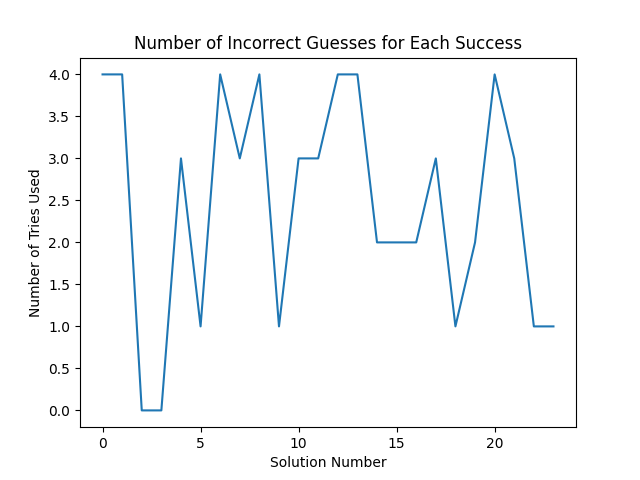
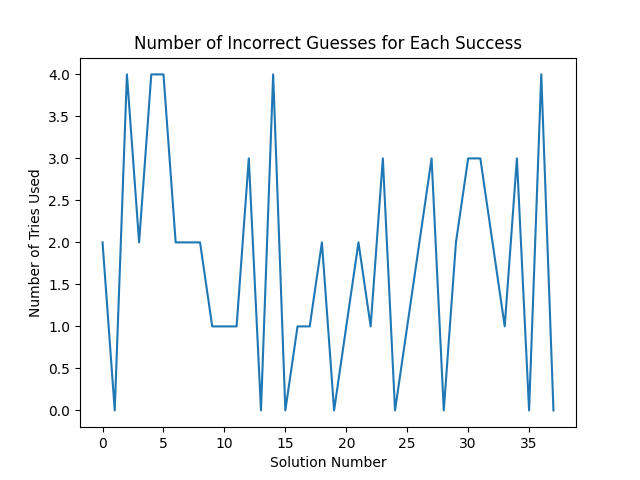
Correct figures

diff --git a/plotting.py b/plotting.py
@@ -1,0 +1,60 @@
+import numpy as np
+import matplotlib.pyplot as plt
+from scipy import signal
+
+losses = [0.0646063, 0.062187657, 0.065627515, 0.063344896, 0.061465748, 0.059861332, 0.062146552, 0.060722332, 0.05986827, 0.05729709, 0.056192435, 0.056267414, 0.05364085, 0.054078627, 0.053613596, 0.0541981, 0.05471701, 0.054173477, 0.06364804, 0.06489934, 0.06401647, 0.06858861, 0.06829514, 0.0683727, 0.067182265, 0.06901794, 0.06759005, 0.06665851, 0.06555318, 0.06434218, 0.06515939, 0.064168006, 0.06398244, 0.06328135, 0.06359166, 0.063017964, 0.062482752, 0.061603446, 0.06208974, 0.06257351, 0.06220232, 0.06145051, 0.06134359, 0.060939755, 0.06021723, 0.059969414, 0.059222855, 0.058829445, 0.058298998, 0.060356416, 0.06030393, 0.059698198, 0.059585333, 0.058980823, 0.058927856, 0.05844822, 0.057783805, 0.057542212, 0.057296883, 0.05699784, 0.056269024, 0.055633545, 0.055458326, 0.0549671, 0.05502462, 0.05470557, 0.05406701, 0.05358532, 0.053231396, 0.053364273, 0.05320721, 0.05316786, 0.052804668, 0.052625164, 0.05279224, 0.05306089, 0.052909046, 0.052768953, 0.052585755, 0.052465033, 0.052442797, 0.05254647, 0.05238271, 0.05211799, 0.052004285, 0.05218313, 0.052189723, 0.052346025, 0.052148696, 0.05200346, 0.05193362, 0.051844344, 0.051488485, 0.05141532, 0.051282417, 0.05150947, 0.0513054, 0.051240828, 0.05111282, 0.050897054, 0.050702084, 0.050948255, 0.051330913, 0.051048916, 0.050888076, 0.05067423, 0.050463486, 0.050405312, 0.050661, 0.05037029, 0.050377626, 0.05010124, 0.049853202, 0.049785405, 0.049696203, 0.04959657, 0.049526606, 0.049399834, 0.049219664, 0.048978884, 0.04888397, 0.048800774, 0.048756905, 0.04862687, 0.04855617, 0.048575986, 0.048524354, 0.04838445, 0.04834587, 0.048370562, 0.048240874, 0.048123676, 0.048063666, 0.048033908, 0.04789348, 0.0477943, 0.047755297, 0.04775984, 0.04772178, 0.047830846, 0.04778469, 0.04764729, 0.04741753, 0.047265258, 0.047249276, 0.047569577, 0.04755056, 0.047516476, 0.04763891, 0.04753221, 0.047533255, 0.047513925, 0.047431275, 0.04737485, 0.04747374, 0.047592975, 0.047749095, 0.047794763, 0.047730517, 0.047613643, 0.047764417, 0.047735427, 0.047954403, 0.047822602, 0.047746137, 0.04856047, 0.048645414, 0.04856608, 0.048452467, 0.048404884, 0.04835606, 0.048312325, 0.048491675, 0.048421595, 0.048390634, 0.048371065, 0.048367098, 0.04845145, 0.048647296, 0.048547767, 0.048632815, 0.04861551, 0.04903263, 0.04911082, 0.049094513, 0.049014665, 0.048984524, 0.048870128, 0.04893079, 0.048729926, 0.04872164, 0.048803687, 0.04875337, 0.048833206, 0.04873603, 0.048676267, 0.048559368, 0.04858747, 0.048474163, 0.048610963, 0.04855746, 0.048629705, 0.04847447, 0.04840003, 0.048407968, 0.048450857, 0.04875193, 0.048704837, 0.048842944, 0.048745647, 0.048651837, 0.048811983, 0.048837025, 0.04885177, 0.04892931, 0.048891433, 0.04882869, 0.048774067, 0.048697315, 0.048685182, 0.04881365, 0.048641574, 0.048611723, 0.048609514, 0.048854437, 0.048816454, 0.04893208, 0.048988454, 0.048955586, 0.04889813, 0.04874761, 0.048796006, 0.048992783, 0.049115457, 0.049110044, 0.049195644, 0.049166337, 0.049033068, 0.049020782, 0.04891606, 0.048857454, 0.04874942, 0.048775394, 0.04908674, 0.049118407, 0.0492876, 0.050127964, 0.050059803, 0.05017884, 0.05041931, 0.05045242, 0.05098433, 0.051317237, 0.051363517, 0.05159408, 0.051574446, 0.051995806, 0.052156158, 0.052148018, 0.052184127, 0.052145682, 0.052933164, 0.052954387, 0.053099748, 0.053175237, 0.053121917, 0.053266294, 0.053339187, 0.05334471, 0.053400483, 0.05364757, 0.053734504, 0.053776912, 0.053864032, 0.053829152, 0.053834688, 0.053702086, 0.053743828, 0.05393725, 0.05390863, 0.05387328, 0.05404886, 0.05446568, 0.05487675, 0.055166125, 0.055157978, 0.05520489, 0.05512555, 0.05511635, 0.055154115, 0.055164207, 0.05515429, 0.05519759, 0.055174574, 0.055166498, 0.055366002, 0.05545036, 0.05544053, 0.055618923, 0.055691645, 0.05573829, 0.055753883, 0.05570188, 0.055844318, 0.056110334, 0.056064263, 0.056251675, 0.056213405, 0.056169473, 0.056961935, 0.05741847, 0.057392757, 0.05770261, 0.057806574, 0.057712283, 0.057713848, 0.057809066, 0.05770819, 0.057761226, 0.057721175, 0.057684314, 0.05786333, 0.0579111, 0.057994854, 0.05818172, 0.058381006, 0.058406245, 0.05827793, 0.058400042, 0.058342714, 0.058209267, 0.058310807, 0.058419786, 0.058630742, 0.058516636, 0.05860036, 0.058561914, 0.05853969, 0.058556173, 0.05854965, 0.05860083, 0.058605764, 0.05854232, 0.05864687, 0.05886241, 0.0587461, 0.05876667, 0.058767613, 0.058837894, 0.05884452, 0.05887545, 0.058895353, 0.058876697, 0.05897815, 0.059038002, 0.05918064, 0.05910968, 0.059165325, 0.059184875, 0.0590942, 0.059006255, 0.058901444, 0.058816653, 0.05880268, 0.05879663, 0.058684353, 0.058693934, 0.059028983, 0.0589289, 0.059119776, 0.05910022, 0.05918319, 0.059249192, 0.05921685, 0.05932003, 0.05942967, 0.059333593, 0.059250765, 0.05925583, 0.059425715, 0.059355523, 0.05927321, 0.059307937, 0.05942453, 0.05964682, 0.05955144, 0.059657805, 0.059720974, 0.059952997, 0.060006812, 0.060121015, 0.060397357, 0.060432497, 0.060458653, 0.060586162, 0.060538013, 0.06052717, 0.06058044, 0.06050911, 0.06065749, 0.06068184, 0.060724966, 0.060840953, 0.060715318, 0.060740568, 0.06086789, 0.060849138, 0.060844533, 0.060721282, 0.060999893, 0.06101314, 0.06112574, 0.061351683, 0.061361626, 0.061549783, 0.061672628, 0.06168083, 0.061738968, 0.061737232, 0.06174347, 0.061807774, 0.061836112, 0.06194996, 0.061892893, 0.062088754, 0.061991833, 0.062347967, 0.06230713, 0.062334895, 0.062463395, 0.0624777, 0.062445905, 0.06235128, 0.06236648, 0.06251899, 0.06244375, 0.06251323, 0.0625587, 0.06259797, 0.06266292, 0.06261606, 0.06263465, 0.06284522, 0.06288648, 0.062991686, 0.0631407, 0.063226305, 0.0632621, 0.06335523, 0.06341287, 0.063665055, 0.06366106, 0.063687466, 0.06377964, 0.06376364, 0.063837826, 0.063982695, 0.06430814, 0.06429497, 0.06446006, 0.06439072, 0.064383455, 0.06445086, 0.06448836, 0.06458828, 0.064696565, 0.06472167, 0.06477804, 0.06481898, 0.06492264, 0.064990096, 0.06505765, 0.06516254, 0.06525797, 0.065382205, 0.065428115, 0.06560452, 0.06570436, 0.065792695, 0.065885015, 0.06604384, 0.066132635, 0.06615491, 0.06622984, 0.066324815, 0.066473454, 0.066607766, 0.06667873, 0.066773385, 0.066990435, 0.067129016, 0.06733437, 0.06746379, 0.067596875, 0.0677667, 0.06790864, 0.0680424, 0.06834217, 0.06847339, 0.06870076, 0.068881564, 0.06899527, 0.06916081, 0.06935064, 0.06954205, 0.069679745, 0.06979283, 0.06998929, 0.07050053, 0.070662856, 0.07091253, 0.071062, 0.071273, 0.071435384, 0.07172106, 0.071994, 0.07221306, 0.07242456, 0.072564036, 0.07285284, 0.07317014, 0.073361814, 0.07361239, 0.073834546, 0.07400407, 0.07422241, 0.0743883, 0.074622504, 0.07476908, 0.07500617, 0.07524666, 0.07548489, 0.07583286, 0.07605119, 0.07640278, 0.07656958, 0.0768699, 0.07726618, 0.07754248, 0.077772126, 0.078026496, 0.07829753, 0.078516275, 0.07875257, 0.078971915, 0.07915256, 0.07947235, 0.079720765, 0.07985874, 0.080145225, 0.08032642, 0.080621906, 0.08087938, 0.08105332, 0.0813258, 0.08162911, 0.08186774, 0.082177855, 0.08246108, 0.08287402, 0.08323996, 0.08352907, 0.08380675, 0.084079646, 0.08467058, 0.0849689, 0.08517547, 0.08547872, 0.085774735, 0.08607842, 0.086353526, 0.08665945, 0.08713029, 0.08735682, 0.08759061, 0.08783303, 0.08820974, 0.08858523, 0.08901763, 0.089317165, 0.08960193, 0.08998365, 0.0902187, 0.09054108, 0.090896316, 0.091093004, 0.09130924, 0.09156442, 0.09194113, 0.09226314, 0.09243741, 0.09275005, 0.09306203, 0.093304396, 0.09355956, 0.09388859, 0.094114214, 0.09432459, 0.09451325, 0.09464509, 0.094949394, 0.09514459, 0.09554251, 0.09576987, 0.09586985, 0.09609614, 0.09625194, 0.09660263, 0.09681489, 0.09694068, 0.09724492, 0.09750635, 0.09772671, 0.09799031, 0.09808741, 0.0983661, 0.09861488, 0.09865225, 0.09896482, 0.09979464, 0.10000216, 0.100228444, 0.100322686, 0.100551195, 0.10065378, 0.100927725, 0.10110821, 0.10102516, 0.101169944, 0.101536386, 0.10146877, 0.101864465, 0.102063954, 0.10238527, 0.10274963, 0.102826916, 0.10328526, 0.10344957, 0.10350875, 0.10346758, 0.10346294, 0.103378415, 0.103804216, 0.10399242, 0.10420934, 0.10451198, 0.10466661, 0.10486838, 0.10496173, 0.10510935, 0.10536773, 0.10538522, 0.10529775, 0.10532804, 0.105396815, 0.10537794, 0.105476834, 0.10558864, 0.1058351, 0.10591128, 0.10593595, 0.10606325, 0.10617908, 0.106414475, 0.106433555, 0.10684464, 0.10700681, 0.10694281, 0.106962346, 0.1069412, 0.10701082, 0.1071343, 0.1072734, 0.107291855, 0.1073176, 0.107357375, 0.10746525, 0.10750558, 0.10757236, 0.10760231, 0.10761023, 0.107543126, 0.10768476, 0.10787655, 0.10791873, 0.107981354, 0.10793011, 0.10797171, 0.108019374, 0.10802935, 0.10809877, 0.108204745, 0.10824253, 0.1082311, 0.108224995, 0.108297005, 0.10835296, 0.10841719, 0.10844487, 0.108547494, 0.10863707, 0.1087137, 0.10875625, 0.108766295, 0.10884053, 0.10893619, 0.108949326, 0.10894992, 0.108970225, 0.10913864, 0.109245054, 0.10929679, 0.10927676, 0.10934212, 0.109487094, 0.10952865, 0.10963196, 0.10969648, 0.10971759, 0.10970425, 0.10983183, 0.1099175, 0.11001683, 0.11007972, 0.11006877, 0.11018733, 0.11026179, 0.11025128, 0.11016427, 0.11011944, 0.110211134, 0.11021996, 0.11022536, 0.11029559, 0.11024976, 0.110233314, 0.11038867, 0.11050197, 0.11060119, 0.11059927, 0.11056454, 0.110544704, 0.1106388, 0.11075263, 0.110667236, 0.11084114, 0.11077023, 0.11075413, 0.111042485, 0.11106892, 0.110955186, 0.11099405, 0.111019604, 0.11105889, 0.11134521, 0.11144642, 0.11156581, 0.111607835, 0.11167252, 0.11187037, 0.11197323, 0.112211294, 0.11226944, 0.11239918, 0.112544656, 0.11259294, 0.11275082, 0.11281973, 0.11294718, 0.113096975, 0.11312025, 0.11317663, 0.11310012, 0.113197386, 0.113148846, 0.113276154, 0.11338722, 0.113405146, 0.11357173, 0.11368664, 0.113646075]
+avg_r = [-8.051724172924995, -7.514223481764111, -7.690143851364737, -7.446871976950617, -7.346910639703647, -7.004224344352821, -7.3670683580692335, -7.362007816413357, -7.541397286654068, -7.435222729797649, -7.047592577079768, -7.004686955174673, -7.150425287156343, -6.847940246941148, -6.738351527955293, -6.796790506801809, -6.942463628849642, -6.938517182723851, -6.933226425990368, -6.802477420583903, -6.8785067327262235, -6.9110192160993345, -6.877743681840665, -6.868690787653288, -6.8709937809109976, -6.892582322997402, -6.944529604885285, -7.018901688800956, -7.078523140796675, -7.088129119541362, -7.07811335311386, -7.147272139424664, -7.223336870757986, -7.330010741736796, -7.369753150480717, -7.389529935315808, -7.442856120783537, -7.491106041737612, -7.478557982191084, -7.4626009067960215, -7.458501651434675, -7.414292803669694, -7.421176498346802, -7.473311973237771, -7.45008596308941, -7.437176743388776, -7.4605720853525055, -7.495260263509842, -7.50678693427964, -7.482954361669432, -7.474991445061679, -7.450537844497985, -7.4820760724621325, -7.5486878559499315, -7.567473420650786, -7.562093731267694, -7.584808197386249, -7.581121985814646, -7.578388991154122, -7.592884446473386, -7.546411975406702, -7.609144585147953, -7.638407040873336, -7.645270062137543, -7.652307080911592, -7.654300528909894, -7.661879266639235, -7.666831806499994, -7.63442814409835, -7.671541640604593, -7.666106056706248, -7.611108276627219, -7.608531693895527, -7.578974561815462, -7.585467075367038, -7.563890300100186, -7.591520084088842, -7.567477036304039, -7.571969354550502, -7.57399753708979, -7.558044519148644, -7.5348864471087955, -7.523069183659131, -7.530650920024111, -7.565220383036165, -7.511185973746219, -7.521526168359448, -7.519022367896445, -7.525774014767124, -7.482941088838968, -7.494251383061976, -7.493575099455483, -7.472722248351391, -7.47291623427456, -7.43890401608788, -7.453965183228746, -7.437973814454425, -7.4462909283799, -7.431170970802003, -7.44521612524446, -7.446833611006688, -7.416156549468808, -7.373497353975494, -7.388765273595719, -7.374135109918805, -7.382548499765305, -7.349223508429324, -7.3677511487804805, -7.34146367303797, -7.319982624173541, -7.3125186709262495, -7.289719595056117, -7.31730091496995, -7.303644376264992, -7.299601780280351, -7.289471929902885, -7.271258944416358, -7.283790342003397, -7.2705097372583305, -7.25029650214125, -7.210421465559258, -7.168487672107683, -7.152704594048514, -7.162335237258473, -7.175705035523127, -7.177856479545389, -7.1920172161244365, -7.182469345485753, -7.219221659744753, -7.227420732333601, -7.2042843123755596, -7.183132963964781, -7.1803536215780195, -7.200695109771396, -7.183482048005548, -7.180711603617467, -7.19346771032135, -7.205044557734202, -7.174416279312545, -7.141861814046483, -7.147634526326145, -7.153439838018095, -7.100044414250276, -7.089106305926788, -7.07489131218541, -7.058642602897342, -7.063713498354412, -7.073026548032212, -7.070171089161609, -7.063571936750451, -7.0797768663882525, -7.084742250148727, -7.075613796282329, -7.071028100876382, -7.059298719506519, -7.057495716033607, -7.030443765267622, -7.0284461919346395, -7.044230575892187, -7.050527659345962, -7.034884123911821, -7.038704246334481, -7.0134433310483635, -7.065451658588445, -7.050187394189452, -7.0238935982019965, -7.039509222790457, -7.040980395113889, -7.021568414552445, -7.022035807439481, -7.0270217976883815, -7.021405498233197, -7.028971947985834, -7.014433058561045, -7.017814072420281, -7.211495956117473, -7.192440826782398, -7.186818809875077, -7.151423843585439, -7.149697828292561, -7.097718029652405, -7.114395920807353, -7.115471419818737, -7.130900621618926, -7.136330987612719, -7.128527447002004, -7.131172267998655, -7.125874237400462, -7.108910667735693, -7.069988072419268, -7.095431751060623, -7.0983466534846995, -7.072586143024281, -7.05108657658353, -7.052020096055315, -7.05976555554616, -7.047722401297067, -7.052713598096298, -7.090117711006833, -7.0732282153647725, -7.06334958107953, -7.066394868383351, -7.052689800576883, -7.036225888019876, -7.026072324439932, -7.032478151329016, -7.0015940846339735, -6.985617930147923, -6.935531831751017, -6.911261787053647, -6.918914798472861, -6.8670793059044515, -6.887454701105421, -6.898128902861371, -6.909299626501977, -6.9013008684210115, -6.899743177510521, -6.904215686880412, -6.896274393749809, -6.904218134507903, -6.9353999749384245, -6.890312609913991, -6.878949761359466, -6.823856693525459, -6.797870814403003, -6.793783401070504, -6.805116302868863, -6.81161906554402, -6.843776462912617, -6.825615880561885, -6.796755609240238, -6.785106609247852, -6.796241279537561, -6.782802223859259, -6.785863146721337, -6.794068348771017, -6.806865394583626, -6.8184105864289535, -6.791232799738487, -6.805361447117035, -6.759342786401391, -6.750743111079373, -6.789690154587492, -6.793344771773485, -6.854718155156806, -6.879933631519333, -6.85949510247996, -6.8478124298842, -6.938242923458886, -6.999775612343086, -6.998935810437965, -6.98308913709854, -7.00782831840485, -7.055998773315127, -7.042647809644648, -7.029646285663682, -7.023868650345173, -7.002510681398305, -6.981298413431866, -6.9776794619551366, -6.960635953492974, -6.949812330074686, -6.940417593270141, -6.941596320958078, -6.9366737093477076, -6.936886444519625, -6.929839679624313, -6.934562734661056, -6.926014670193019, -6.914352068251449, -6.90360130248076, -6.891088528532534, -6.892706556842579, -6.874479049130949, -6.862017952523096, -6.856179478108167, -6.872295892894902, -6.869949753771957, -6.809689340180329, -6.78275838981094, -6.7929984459992925, -6.772120509420972, -6.711436042439063, -6.6842350800257435, -6.654929592490719, -6.6560226818783725, -6.637577238952269, -6.630309720169121, -6.624664354017389, -6.623732443197533, -6.623204632253614, -6.616532524962732, -6.616058636020615, -6.600803969055519, -6.598132049496115, -6.58640795379662, -6.575575864845165, -6.562533484995224, -6.50323564266769, -6.4835090341599475, -6.480886531882164, -6.4237644623642085, -6.407060145567498, -6.4090943054708704, -6.413145462078729, -6.4193974021658535, -6.420028198057656, -6.397140024450819, -6.368447111407895, -6.334370134448919, -6.315541045488868, -6.307006550485679, -6.2918240091505995, -6.257989332027726, -6.227841821256566, -6.2150539033461065, -6.178442353395387, -6.14574723667004, -6.152790933449517, -6.142859449733626, -6.128059154306099, -6.111189914928695, -6.106107013643509, -6.0908853647608545, -6.047046580768666, -6.005456272325024, -5.975089839400411, -5.925203855560936, -5.9037147292996, -5.887455784981747, -5.8584467995755265, -5.844503788849716, -5.807221212160648, -5.777243257532861, -5.756736851048007, -5.709392762797486, -5.697783490588692, -5.698068676024961, -5.691713704921183, -5.66400885146795, -5.627537876161448, -5.603185199864221, -5.573766528058866, -5.551894313123237, -5.586781300612653, -5.541945112846908, -5.519466499320623, -5.483552927338986, -5.450121952065375, -5.446458546082542, -5.441432707022301, -5.4206919166131575, -5.410353152559493, -5.405354916569453, -5.399824078705348, -5.381524253978309, -5.3464596583866175, -5.354109225560658, -5.3407685214838185, -5.3138110119928665, -5.315943091227902, -5.287027110905253, -5.2427330439393875, -5.229471457445776, -5.227982069496862, -5.2021210229636505, -5.181106698115361, -5.182672726713714, -5.249781015311855, -5.294861987568179, -5.278789694280598, -5.26656313194652, -5.28353076982567, -5.2503877379744, -5.247253456183202, -5.254862162309286, -5.217999312988845, -5.182463418554816, -5.13915634417636, -5.101797954078596, -5.070848118870355, -5.042301742591523, -5.055324382604933, -5.027723819157941, -4.998571603083476, -4.967189624824594, -4.9322099395449905, -4.916531718588843, -4.910528293466666, -4.875380577533724, -4.834402343838057, -4.8094294050734225, -4.7770768240815675, -4.778094894063194, -4.755591806848735, -4.7272465799504895, -4.700650177736818, -4.702257125300788, -4.663214439027621, -4.629526982080008, -4.601420603573119, -4.614666502708079, -4.6125614606861065, -4.579546340187426, -4.571614666439881, -4.540760765729567, -4.51840144105611, -4.485371857462584, -4.458913869751103, -4.420845956709199, -4.399397648063961, -4.397273150843462, -4.363905886171823, -4.372932274187901, -4.368184468263209, -4.363277530523578, -4.3287059851789325, -4.3163477801218555, -4.281722347809052, -4.278271102552078, -4.2666460454152535, -4.264465712205054, -4.244412583011927, -4.218090543874355, -4.203195296905616, -4.17698464298421, -4.165712565507924, -4.129740718956894, -4.129941878126792, -4.114992090516834, -4.09012990248851, -4.0679970927379925, -4.043603826336644, -4.023321247917499, -4.013870783328057, -3.993242849586083, -3.974809180636937, -3.950281814565033, -3.944258924916637, -3.942573271419942, -3.9431756990877216, -3.9283266355516906, -3.9091800656731075, -3.904733792875116, -3.906773129745189, -3.8705637111134563, -3.868221595812635, -3.8443288877988766, -3.842542831100325, -3.813881246535047, -3.791494673590512, -3.781651010541429, -3.772894112062995, -3.743500332230549, -3.743020229163436, -3.7489250456575784, -3.7336830689549094, -3.7068705410285805, -3.6752036878840237, -3.6527127779711526, -3.6188438302894705, -3.596162027023082, -3.5958410471439772, -3.590409960390697, -3.5804851214819697, -3.5804794986732804, -3.5718461743139454, -3.5739844931734774, -3.5745278806687026, -3.571021083884216, -3.5727568460638435, -3.5582713689801966, -3.55758283189176, -3.554582537237479, -3.5515191921599714, -3.562182372221507, -3.558890965848756, -3.5594050927308727, -3.5626962772062503, -3.5643247986190905, -3.5624890124112767, -3.56890753899709, -3.5730360919122472, -3.5635535410203554, -3.5661414013420534, -3.559415825432311, -3.5622839062696134, -3.560150245736052, -3.5668089089103923, -3.565664231946113, -3.5652982541334577, -3.5695023981245737, -3.57666462839432, -3.5798379539640357, -3.5744703662892645, -3.5720383475422226, -3.569058457655264, -3.5607192078770327, -3.56302015404472, -3.5631441027412953, -3.564655009864751, -3.5680726575566495, -3.563977928484679, -3.5682371428604234, -3.5553220622547834, -3.552820015653321, -3.553165055652797, -3.553501747450184, -3.6229065754676952, -3.717250224318932, -3.8308298190118837, -3.895561360641827, -3.9980177211804557, -3.9922340856425693, -3.9827258979564637, -3.9726120074554805, -3.9753151829150655, -3.9744081466264367, -3.9700182438617238, -3.972443980068319, -3.9774137759391306, -3.9740386027683154, -3.9624794561665446, -3.954412768749631, -3.96322110368789, -3.9608451787349535, -3.960796333459614, -3.9604752872550124, -3.964410992567784, -3.9638670054729443, -3.964601455257103, -3.9646477832914173, -3.9662475669674815, -3.9724862231174716, -3.971054064034068, -3.9672592601749717, -3.9728335636839733, -3.979769938044458, -3.9877789828623116, -3.9922279195792743, -3.9948169125245747, -3.994335018375706, -4.001310263430944, -4.000455542793107, -4.002566917318526, -3.9984302975555863, -4.003892561829588, -3.9902317204026034, -3.981177557026573, -3.9871645539585865, -3.99636164201973, -3.995280481022809, -4.009033736168794, -4.002026539422152, -4.006175729466266, -4.001348087690829, -4.0037985221623105, -4.003598148764749, -4.00706989285482, -4.003907326320345, -4.001541817915259, -4.0014471642033955, -3.9928852472669765, -3.9958042618168017, -3.9943524071114673, -3.9990789483310296, -4.005589594513228, -4.009951616885376, -4.0066260363557005, -4.004364768235881, -3.9988572046952466, -3.9937861181385093, -3.99274191450587, -3.9955157120356097, -3.9893619254786175, -3.987398279440581, -3.9853386326698237, -3.9870635644671766, -3.9907643762427143, -3.991160556524238, -3.9887129279543836, -3.9882906319772715, -3.981122650943076, -3.973437853027626, -3.973236328963511, -3.971257842071025, -3.963931819802362, -3.968940548979369, -3.9666623921558157, -3.956560942180969, -3.9513375309617595, -3.9488555192065906, -3.9506826900673557, -3.9477734348835996, -3.9447023274860964, -3.9449219643475937, -3.9443677137298683, -3.947477345677397, -3.9481702669866214, -3.949669484137568, -3.952064525260377, -3.9588340232815744, -3.962213015412107, -3.965456205526466, -3.964933132799374, -3.9645941479476283, -3.9643536334832903, -3.9574990439612074, -3.959208945647034, -3.9509854520674104, -3.957837120107803, -3.9647526018853263, -3.9642988224939577, -3.9697317745061564, -3.9661853426821874, -3.968261115196877, -3.969570715783135, -3.9694979666823955, -3.974331057957087, -3.9667868716118027, -3.974588886155583, -3.971208070526126, -3.9751976743494657, -3.9749964054433056, -3.9754517618430283, -3.98541636081537, -3.989191954043375, -3.975350741352884, -3.976696515418111, -3.9679864006902297, -3.960419244222755, -3.9433314753044084, -3.9297692970542246, -3.9388682669015234, -3.938403483927601, -3.9537579508728773, -3.947699982175517, -3.9386795793301768, -3.918498244308385, -3.9365883793980827, -3.9417005722906073, -3.925481852871493, -3.9283005283523975, -3.9322847908874454, -3.9382629235788036, -3.9451916887719154, -3.9460521198794956, -3.9555451939769526, -3.9554619866031864, -3.9541424047044558, -3.9549189430772222, -3.957355088606598, -3.9344727709613063, -3.9384044921089867, -3.938574219477969, -3.929554150874414, -3.93462178026572, -3.9392689851571547, -3.9324996262022913, -3.9244117723336234, -3.92103732395183, -3.910531593219794, -3.913256363739742, -3.9196783272511757, -3.920208626984995, -3.917707859800345, -3.9056366807052516, -3.8895314518965223, -3.8872930794285447, -3.888626974325729, -3.89561684896222, -3.8955834909772644, -3.903186181737733, -3.8993278184296765, -3.909655103540158, -3.919831837535367, -3.921127116470277, -3.922189190303815, -3.9323330775938325, -3.93301668084726, -3.9397954424168713, -3.9407566524955446, -3.944696113078906, -3.946468216646588, -3.948173799046144, -3.9448985399790066, -3.9468066033190143, -3.9525579841895397, -3.9590402603767982, -3.9649215569597853, -3.967529529435693, -3.9693035283719276, -3.9732129108053984, -3.977148596375867, -3.9752676851281086, -3.9795030024354023, -3.9812424772828794, -3.984528822419164, -3.9854343170014768, -3.9910627530164744, -3.9949178260732103, -3.9954826010462865, -4.003009522476136, -4.004459746892136, -4.011990191142402, -4.020934221727561, -4.019424869483428, -4.019180644982729, -4.019788779017942, -4.0257716493576705, -4.033972776157101, -4.031133545350323, -4.03079122987459, -4.040906880856426, -4.042782632794009, -4.050156883327141, -4.050314737134725, -4.050372491201697, -4.049460441590246, -4.051115584031018, -4.049336029308151, -4.052204749787126, -4.046123648418427, -4.04253770619474, -4.034574837279567, -4.039063871960264, -4.03613109649518, -4.038245386349532, -4.0342214254513005, -4.038571496650392, -4.035447227340356, -4.036748240745292, -4.035063122538169, -4.044650411109631, -4.0466783757441265, -4.042864809408776, -4.042494084642017, -4.046801546055614, -4.052367298892969, -4.057389934039798, -4.058798788280988, -4.050489135435731, -4.050431825344777, -4.0505738134291756, -4.049527877596771, -4.04593573980092, -4.047832362219691, -4.045544757106005, -4.050888436712868, -4.055022041664517, -4.046933506646389, -4.056680441029624, -4.0565705843939295, -4.0549638509732855, -4.054918488696363, -4.050241655039169, -4.047519691630613, -4.046264687349796, -4.047284791502675, -4.040517440588242, -4.04156171872063, -4.04565470016669, -4.043808067799916, -4.04353463015967, -4.043953891950072, -4.053424257725866, -4.051396392624064, -4.04706183388111, -4.048087251076663, -4.049162078210443, -4.049332064731112, -4.044772889269946, -4.050765126242614, -4.051314930063671, -4.057299620621447, -4.065383406257973, -4.062674374541337, -4.058732704593505, -4.059055089105374, -4.0555611099951685, -4.054480476645035]
+track_tries = [2, 0, 4, 2, 4, 4, 2, 2, 2, 1, 1, 1, 3, 0, 4, 0, 1, 1, 2, 0, 1, 2, 1, 3, 0, 1, 2, 3, 0, 2, 3, 3, 2, 1, 3, 0, 4, 0]
+exploring = [98, 93, 70, 77, 96, 68, 116, 85, 108, 86, 111, 106, 71, 55, 59, 131, 89, 173, 54, 55, 143, 78, 226, 73, 67, 94, 98, 131, 144, 58, 43, 103, 163, 110, 80, 104, 188, 79, 105, 77, 85, 42, 91, 132, 152, 91, 101, 100, 115, 61, 87, 71, 79, 107, 98, 72, 88, 91, 54, 157, 46, 62, 155, 129, 85, 97, 76, 112, 47, 118, 114, 118, 125, 68, 142, 66, 73, 101, 231, 128, 232, 101, 64, 93, 104, 92, 264, 106, 116, 78, 141, 92, 59, 92, 62, 151, 68, 91, 99, 155, 102, 69, 68, 80, 135, 136, 72, 115, 46, 63, 70, 71, 127, 85, 188, 76, 91, 144, 105, 51, 61, 91, 99, 88, 106, 68, 150, 114, 113, 141, 79, 90, 75, 145, 54, 74, 115, 103, 62, 61, 114, 178, 40, 100, 58, 26, 137, 83, 49, 121, 126, 137, 87, 117, 50, 130, 101, 125, 156, 40, 45, 97, 45, 57, 68, 47, 87, 103, 45, 83, 68, 58, 43, 47, 90, 68, 112, 56, 42, 41, 22, 151, 59, 104, 120, 55, 70, 91, 66, 49, 53, 93, 82, 77, 77, 124, 93, 139, 91, 69, 129, 81, 96, 43, 41, 53, 66, 67, 29, 116, 110, 25, 116, 149, 75, 80, 63, 77, 91, 150, 80, 16, 54, 34, 30, 49, 66, 85, 92, 13, 22, 86, 13, 75, 64, 67, 86, 20, 24, 11, 29, 15, 33, 63, 78, 33, 24, 11, 102, 12, 49, 15, 110, 92, 52, 62, 66, 43, 65, 69, 37, 48, 36, 71, 48, 101, 47, 82, 55, 63, 114, 93, 95, 50, 48, 134, 15, 45, 11, 51, 81, 56, 9, 59, 47, 56, 71, 50, 60, 127, 216, 83, 107, 72, 104, 106, 79, 40, 8, 30, 54, 5, 53, 94, 84, 65, 46, 35, 27, 31, 33, 70, 47, 30, 13, 92, 19, 10, 25, 23, 71, 51, 65, 72, 10, 10, 11, 11, 87, 45, 18, 28, 12, 19, 7, 9, 10, 40, 41, 15, 30, 17, 11, 37, 40, 9, 20, 7, 9, 44, 88, 34, 57, 92, 48, 36, 25, 76, 39, 8, 11, 19, 6, 29, 52, 6, 34, 55, 7, 9, 27, 18, 10, 8, 78, 70, 3, 8, 3, 3, 1, 6, 58, 14, 8, 6, 4, 35, 47, 4, 5, 35, 8, 109, 19, 6, 41, 103, 6, 4, 6, 10, 37, 5, 50, 12, 13, 5, 4, 4, 3, 193, 5, 86, 92, 43, 24, 36, 6, 39, 17, 80, 57, 3, 18, 6, 5, 4, 28, 59, 3, 8, 4, 5, 60, 3, 19, 4, 31, 74, 33, 20, 11, 13, 63, 6, 48, 39, 75, 11, 38, 17, 10, 7, 39, 74, 103, 8, 5, 2, 10, 3, 63, 175, 94, 108, 39, 147, 164, 158, 77, 40, 77, 72, 105, 97, 58, 146, 151, 145, 58, 73, 127, 71, 89, 103, 122, 123, 159, 57, 71, 62, 76, 135, 74, 93, 138, 78, 80, 62, 120, 96, 124, 143, 61, 55, 111, 135, 12, 21, 23, 20, 26, 43, 98, 59, 130, 77, 83, 77, 69, 112, 54, 125, 57, 69, 60, 133, 116, 57, 142, 49, 53, 104, 54, 133, 125, 141, 77, 52, 147, 98, 88, 112, 85, 86, 124, 119, 52, 112, 78, 82, 79, 40, 118, 115, 77, 93, 101, 98, 59, 98, 121, 79, 74, 83, 119, 109, 53, 53, 124, 65, 59, 78, 101, 57, 75, 119, 96, 90, 56, 59, 88, 66, 122, 54, 113, 83, 37, 60, 83, 105, 153, 129, 134, 48, 84, 89, 89, 99, 121, 37, 67, 83, 46, 65, 85, 96, 95, 60, 152, 55, 79, 66, 60, 80, 73, 95, 77, 10, 99, 47, 14, 37, 38, 93, 71, 7, 14, 20, 9, 16, 32, 76, 72, 24, 11, 6, 9, 9, 49, 6, 32, 80, 68, 99, 79, 103, 27, 30, 14, 38, 8, 91, 14, 8, 97, 105, 25, 41, 83, 40, 71, 72, 15, 8, 8, 8, 9, 36, 45, 58, 96, 70, 135, 77, 66, 109, 132, 131, 135, 43, 75, 46, 79, 151, 77, 98, 89, 38, 87, 54, 76, 59, 178, 130, 38, 37, 39, 94, 66, 67, 96, 121, 100, 93, 88, 63, 56, 60, 90, 96, 131, 86, 77, 117, 51, 93, 57, 97, 66, 79, 57, 63, 64, 79, 72, 68, 51, 95, 108, 112, 91, 102, 109, 75, 61, 55, 95, 75, 70, 64, 93, 59, 91, 43, 53, 34, 58, 34, 9, 45, 65, 73, 78, 76, 53, 95, 61, 66, 40, 45, 72, 59, 142, 69, 55, 53, 72, 80, 91, 94, 29, 58, 8, 119, 70, 62, 77, 71, 146]
+exploiting = [84, 92, 83, 75, 64, 56, 104, 96, 103, 71, 119, 126, 85, 39, 79, 126, 86, 172, 36, 65, 181, 100, 248, 73, 49, 126, 106, 130, 118, 76, 46, 101, 141, 132, 120, 108, 219, 80, 112, 92, 116, 45, 63, 153, 199, 98, 107, 112, 150, 61, 113, 88, 119, 147, 115, 87, 98, 120, 65, 187, 51, 75, 200, 165, 169, 132, 78, 153, 56, 163, 140, 146, 147, 99, 170, 67, 99, 163, 309, 153, 289, 125, 68, 145, 134, 134, 353, 131, 140, 123, 191, 171, 75, 166, 90, 260, 115, 111, 125, 223, 159, 95, 88, 127, 186, 191, 92, 148, 81, 88, 95, 113, 232, 138, 306, 104, 145, 248, 143, 77, 102, 147, 168, 141, 159, 95, 237, 165, 177, 209, 134, 159, 147, 263, 92, 120, 148, 216, 79, 79, 212, 283, 46, 138, 77, 49, 285, 181, 74, 246, 162, 290, 155, 227, 100, 260, 145, 202, 332, 84, 107, 162, 56, 105, 139, 51, 182, 205, 63, 173, 146, 125, 80, 108, 161, 137, 225, 78, 63, 81, 39, 305, 130, 231, 216, 130, 137, 176, 138, 82, 97, 167, 148, 133, 188, 276, 158, 272, 209, 118, 251, 156, 158, 68, 118, 118, 116, 116, 67, 233, 218, 31, 207, 311, 151, 139, 139, 167, 206, 377, 156, 44, 104, 48, 63, 110, 162, 212, 211, 30, 27, 216, 27, 173, 140, 130, 173, 30, 62, 37, 36, 22, 48, 179, 218, 58, 40, 34, 250, 39, 104, 39, 261, 175, 152, 177, 157, 92, 138, 177, 82, 118, 120, 162, 100, 211, 122, 187, 125, 163, 250, 210, 263, 141, 114, 287, 30, 120, 20, 121, 191, 84, 26, 117, 110, 155, 157, 127, 175, 361, 539, 234, 234, 189, 302, 227, 221, 131, 27, 102, 161, 28, 138, 238, 197, 198, 113, 98, 55, 58, 101, 229, 166, 62, 32, 269, 44, 35, 66, 73, 193, 149, 175, 247, 19, 33, 24, 26, 322, 98, 43, 70, 25, 64, 39, 30, 53, 104, 92, 59, 92, 53, 30, 120, 85, 29, 63, 30, 35, 118, 262, 84, 169, 314, 147, 133, 64, 201, 100, 26, 53, 37, 21, 77, 173, 40, 98, 193, 44, 40, 80, 66, 32, 22, 262, 245, 23, 19, 22, 22, 24, 28, 174, 40, 21, 23, 23, 96, 153, 23, 21, 71, 21, 435, 50, 20, 134, 374, 21, 22, 23, 27, 126, 22, 120, 18, 26, 23, 23, 22, 24, 758, 21, 274, 299, 167, 100, 130, 31, 124, 37, 276, 224, 23, 72, 22, 25, 21, 105, 152, 24, 23, 22, 22, 272, 24, 61, 23, 107, 258, 141, 100, 33, 80, 276, 23, 184, 122, 313, 28, 144, 63, 54, 26, 185, 284, 420, 23, 21, 24, 31, 23, 203, 602, 461, 413, 140, 603, 640, 565, 310, 173, 327, 314, 425, 385, 221, 646, 525, 673, 210, 354, 485, 306, 400, 409, 532, 423, 716, 226, 322, 241, 300, 618, 309, 402, 705, 356, 280, 241, 567, 406, 606, 740, 299, 349, 520, 714, 37, 60, 71, 47, 101, 152, 442, 248, 533, 363, 396, 358, 346, 573, 230, 560, 291, 272, 240, 710, 510, 248, 676, 217, 270, 421, 292, 582, 596, 590, 464, 302, 691, 512, 388, 491, 418, 359, 623, 543, 204, 584, 406, 482, 341, 190, 689, 578, 391, 572, 593, 540, 256, 600, 533, 481, 455, 427, 656, 523, 263, 267, 653, 405, 327, 363, 573, 343, 342, 570, 528, 527, 321, 325, 509, 355, 716, 333, 612, 453, 186, 359, 421, 589, 851, 806, 738, 301, 551, 537, 487, 589, 737, 186, 411, 479, 248, 386, 501, 513, 627, 296, 893, 394, 315, 415, 361, 507, 464, 535, 442, 65, 558, 273, 160, 228, 139, 441, 377, 37, 94, 76, 78, 50, 115, 502, 406, 116, 68, 65, 23, 39, 241, 37, 181, 571, 362, 593, 496, 772, 175, 173, 134, 200, 25, 688, 145, 49, 675, 734, 148, 192, 578, 392, 460, 521, 85, 60, 49, 44, 80, 200, 311, 366, 577, 505, 923, 541, 473, 708, 847, 960, 1065, 291, 630, 254, 598, 963, 482, 581, 607, 228, 625, 279, 618, 371, 1173, 832, 234, 284, 299, 754, 596, 490, 713, 816, 555, 649, 571, 417, 519, 386, 633, 592, 961, 746, 605, 892, 437, 720, 459, 742, 389, 500, 377, 465, 482, 726, 611, 416, 319, 596, 732, 870, 639, 767, 779, 545, 451, 345, 732, 650, 614, 589, 759, 532, 784, 255, 416, 274, 500, 215, 82, 568, 485, 507, 686, 683, 424, 648, 570, 548, 298, 423, 638, 509, 1316, 642, 376, 449, 597, 555, 835, 694, 199, 529, 102, 914, 547, 441, 685, 466, 1252]
+window = np.ones(60)/60
+
+#losses = np.convolve(losses, window, mode = 'valid')
+
+plt.figure(figsize=(14, 7))
+plt.subplot(1, 2, 1)
+plt.plot(losses, label='Loss')
+plt.title('Training Losses')
+plt.xlabel('Episode')
+plt.ylabel('Loss')
+plt.grid(True)
+plt.legend()
+
+# Plotting the rewards
+plt.subplot(1, 2, 2)
+plt.plot(avg_r, label='Rewards', color='r')
+plt.title('Training Rewards')
+plt.xlabel('Episode')
+plt.ylabel('Rewards')
+plt.grid(True)
+plt.tight_layout()
+plt.show()
+
+plt.figure()
+plt.plot(track_tries)
+plt.title('Number of Incorrect Guesses for Each Success')
+plt.xlabel('Solution Number')
+plt.ylabel('Number of Tries Used')
+plt.show()
+
+plt.figure()
+plt.plot(exploring, label = "Exploration")
+plt.plot(exploiting, label = "Exploitation")
+plt.title('Exploration vs. Exploitation over Episodes')
+plt.xlabel('Episode')
+plt.ylabel('Actions Taken')
+plt.legend()
+plt.show()
+
+window = np.ones(10)/10
+
+smoothed_expr = np.convolve(exploring, window, mode = 'valid')
+smoothed_expt = np.convolve(exploiting, window, mode = 'valid')
+plt.figure()
+plt.plot(smoothed_expr, label = "Exploration")
+plt.plot(smoothed_expt, label = "Exploitation")
+plt.title('Exploration vs. Exploitation over Episodes')
+plt.xlabel('Episode')
+plt.ylabel('Actions Taken')
+plt.legend()
+plt.show()

diff --git a/finaltest.py b/finaltest.py
@@ -311,7 +311,7 @@ def train_dqn(env, episodes, batch_size, model_dir='model_checkpoints'):
 words = ['apple', 'banana', 'grape', 'pear', 'chair', 'table', 'desk', 'sofa', 'blue', 'yellow', 'green', 'red', 'denver', 'boulder', 'vail', 'greeley']
 groups = [0, 0, 0, 0, 1, 1, 1, 1, 2, 2, 2, 2, 3, 3, 3, 3]
 env = ConnectionsGame(words, groups)
-model, losses, rewards, tries, exploring, exploiting = train_dqn(env, 750, 32)
+model, losses, rewards, tries, exploring, exploiting = train_dqn(env, 900, 32)
 model.save('finalmodel.keras')
 
 plt.figure(figsize=(14, 7))
